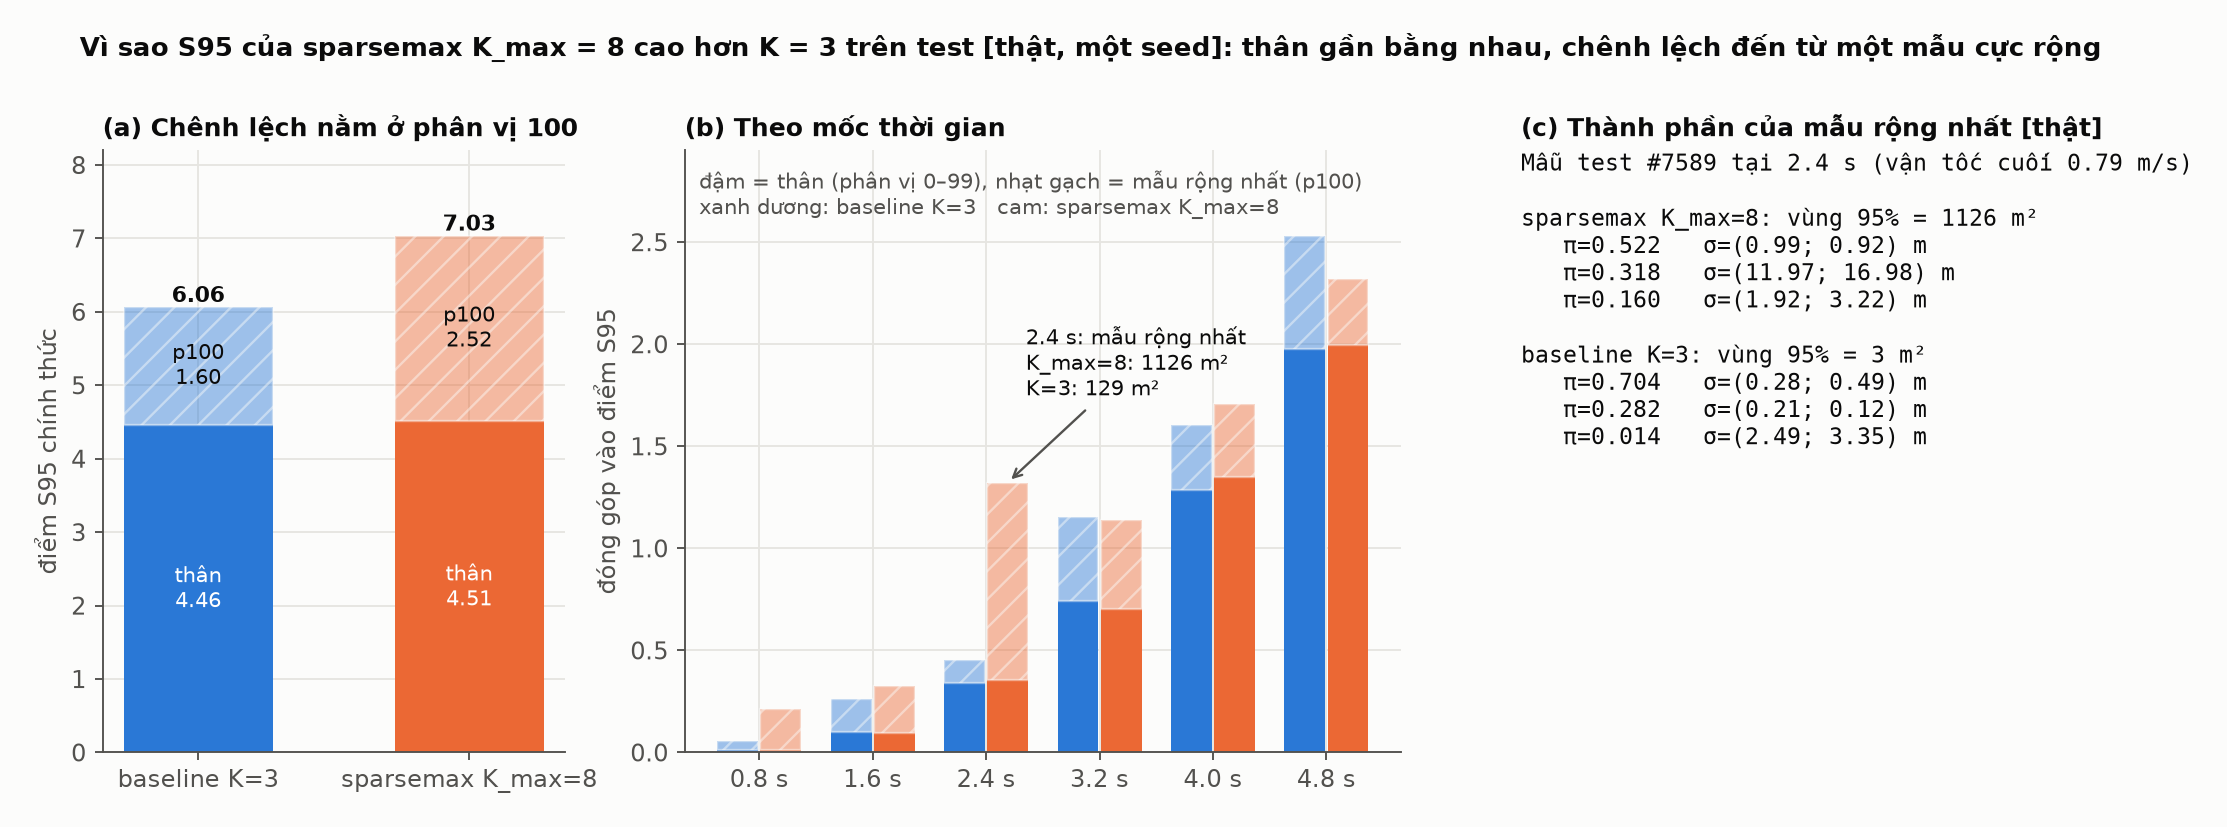
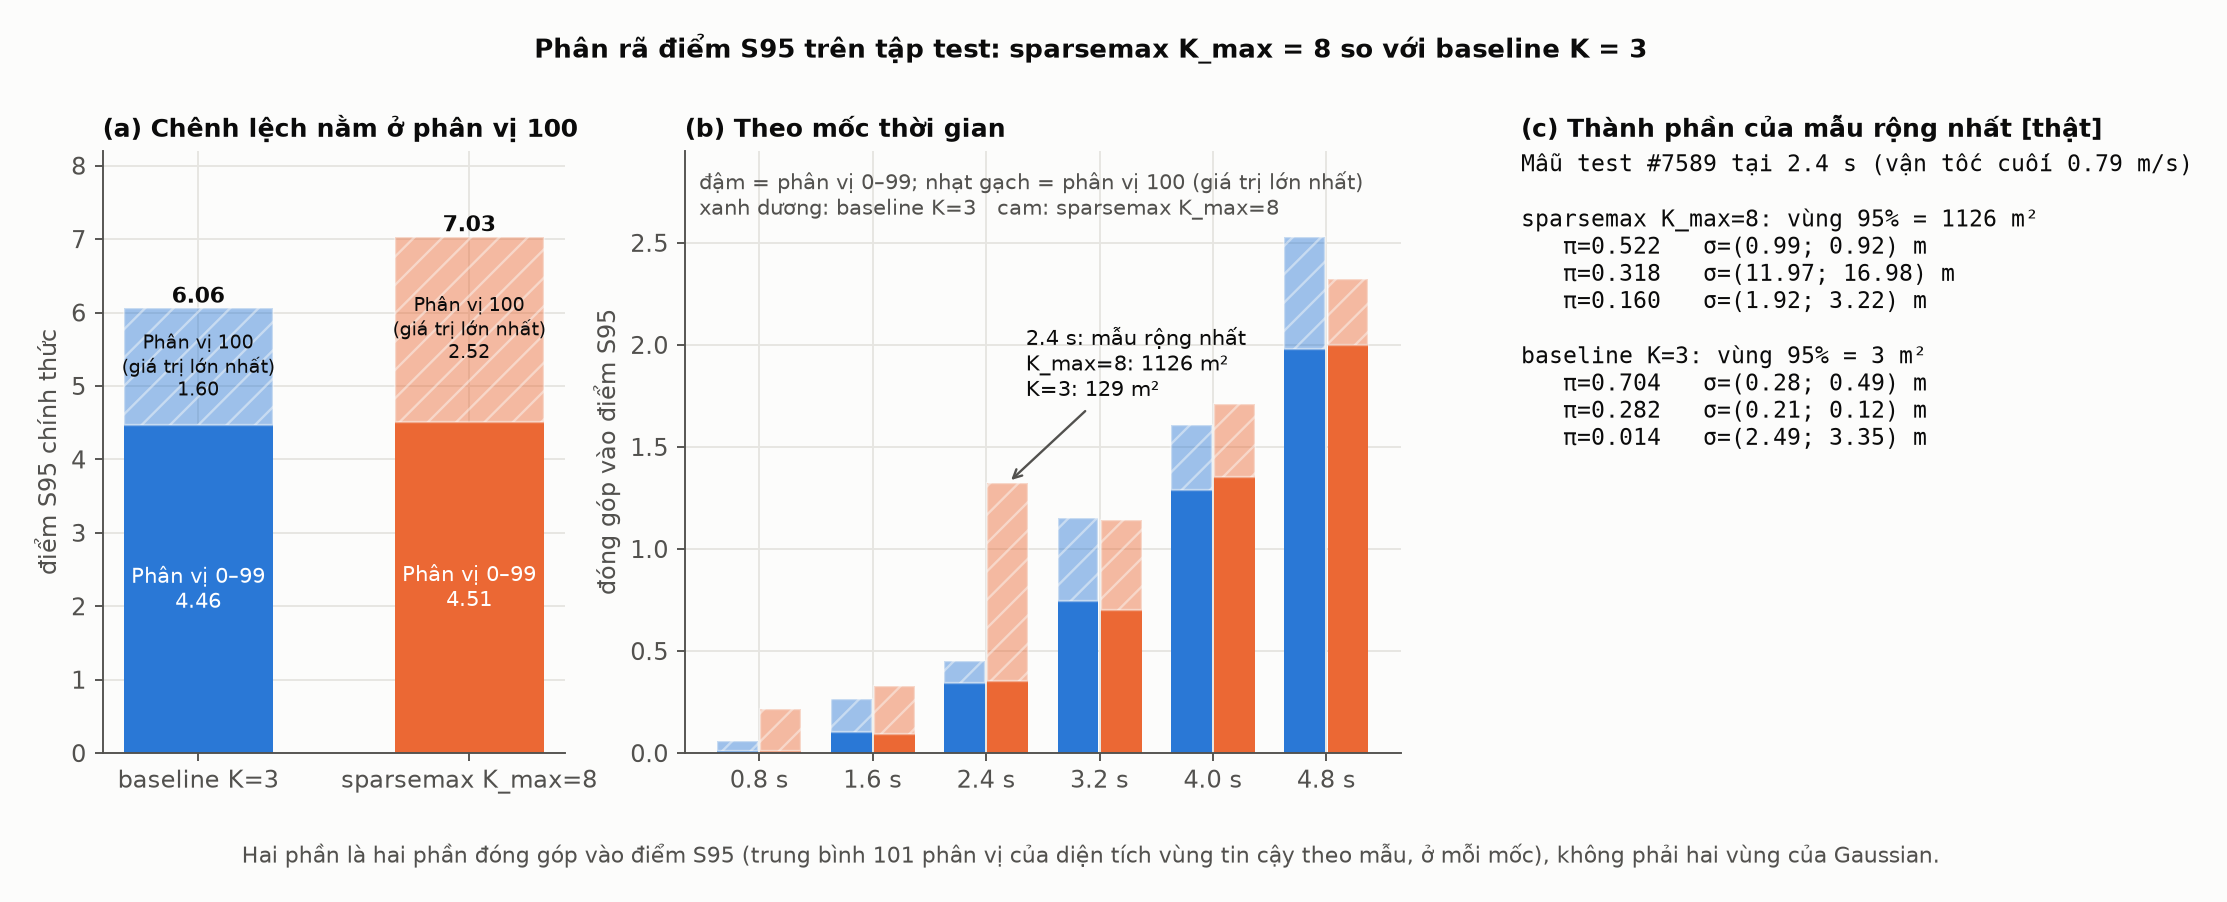
Clarify S95 percentile decomposition and add slide figure generator

diff --git a/docs/sparsemax_mdn_k8/generate_figures.py b/docs/sparsemax_mdn_k8/generate_figures.py
@@ -487,7 +487,7 @@ def fig15_test_sharpness():
         ax.text(i + 0.18, off_v[i], f"{off_v[i]:.2f}", ha="center", va="bottom", fontsize=9.5)
     ax.set_xticks(xs)
     ax.set_xticklabels(["S68", "S95"])
-    ax.text(0.5, 0.9, "xám: trung bình theo mẫu\ncam: điểm chính thức (trung bình 101 phân vị,\ngồm cả mẫu lớn nhất)", transform=ax.transAxes, ha="center", va="top", fontsize=9, color=INK2)
+    ax.text(0.5, 0.9, "xám: trung bình theo mẫu\ncam: điểm chính thức (trung bình 101 phân vị,\ngồm cả phân vị 100 = giá trị lớn nhất)", transform=ax.transAxes, ha="center", va="top", fontsize=9, color=INK2)
     ax.set_ylim(0, max(off_v) * 1.3)
     ax.set_title("Điểm chính thức cao hơn trung bình mẫu", loc="left", fontsize=10, weight="bold")
     fig.suptitle("Độ sắc nét của sparsemax trên tập test [thật]: đa số mẫu rất sắc, điểm chính thức bị kéo lên bởi đuôi", fontsize=11, weight="bold", y=1.03)
@@ -584,21 +584,21 @@ def fig18_s95_explained():
         return None
     d = json.loads(path.read_text())
     fig, axes = plt.subplots(1, 3, figsize=(15.5, 4.6), gridspec_kw={"width_ratios": [1.0, 1.55, 1.35]})
-    # (a) tổng: thân + phân vị 100
+    # (a) tổng: phân vị 0–99 + phân vị 100
     ax = axes[0]
     for i, (name, color) in enumerate((("K3", BLUE), ("K8", ORANGE))):
         s = d["s95"][f"{name}_sum"]
         ax.bar(i, s["body"], color=color, width=0.55)
         ax.bar(i, s["p100"], bottom=s["body"], color=color, alpha=0.45, width=0.55, hatch="//", edgecolor=SURFACE)
         ax.text(i, s["total"], f"{s['total']:.2f}", ha="center", va="bottom", fontsize=9.5, weight="bold")
-        ax.text(i, s["body"] / 2, f"thân\n{s['body']:.2f}", ha="center", va="center", fontsize=8.8, color="white")
-        ax.text(i, s["body"] + s["p100"] / 2, f"p100\n{s['p100']:.2f}", ha="center", va="center", fontsize=8.8)
+        ax.text(i, s["body"] / 2, f"Phân vị 0–99\n{s['body']:.2f}", ha="center", va="center", fontsize=8.8, color="white")
+        ax.text(i, s["body"] + s["p100"] / 2, f"Phân vị 100\n(giá trị lớn nhất)\n{s['p100']:.2f}", ha="center", va="center", fontsize=8.0)
     ax.set_xticks([0, 1])
     ax.set_xticklabels(["baseline K=3", "sparsemax K_max=8"])
     ax.set_ylabel("điểm S95 chính thức")
     ax.set_ylim(0, 8.2)
     ax.set_title("(a) Chênh lệch nằm ở phân vị 100", loc="left", fontsize=10.5, weight="bold")
-    # (b) theo mốc: đóng góp của p100
+    # (b) theo mốc: đóng góp của phân vị 100
     ax = axes[1]
     t = d["horizons_s"]
     x = np.arange(len(t))
@@ -615,7 +615,7 @@ def fig18_s95_explained():
     mx = d["s95"]["K8"][2]["max_area_m2"]; m3 = d["s95"]["K3"][2]["max_area_m2"]
     ax.annotate(f"2.4 s: mẫu rộng nhất\nK_max=8: {mx:.0f} m²\nK=3: {m3:.0f} m²", xy=(2 + 0.19, d["s95"]["K8"][2]["total"]), xytext=(2.35, 1.75),
                 fontsize=9, arrowprops=dict(arrowstyle="->", color=INK2), color=INK)
-    ax.text(0.02, 0.97, "đậm = thân (phân vị 0–99), nhạt gạch = mẫu rộng nhất (p100)\nxanh dương: baseline K=3   cam: sparsemax K_max=8", transform=ax.transAxes, va="top", fontsize=9, color=INK2)
+    ax.text(0.02, 0.97, "đậm = phân vị 0–99; nhạt gạch = phân vị 100 (giá trị lớn nhất)\nxanh dương: baseline K=3   cam: sparsemax K_max=8", transform=ax.transAxes, va="top", fontsize=9, color=INK2)
     # (c) thành phần của mẫu rộng nhất
     ax = axes[2]
     w = d["widest_sample"]
@@ -629,8 +629,10 @@ def fig18_s95_explained():
         lines.append("")
     ax.text(0.0, 1.0, "\n".join(lines), va="top", ha="left", fontsize=9.6, family="DejaVu Sans Mono", color=INK)
     ax.set_title("(c) Thành phần của mẫu rộng nhất [thật]", loc="left", fontsize=10.5, weight="bold")
-    fig.suptitle("Vì sao S95 của sparsemax K_max = 8 cao hơn K = 3 trên test [thật, một seed]: thân gần bằng nhau, chênh lệch đến từ một mẫu cực rộng",
+    fig.suptitle("Phân rã điểm S95 trên tập test: sparsemax K_max = 8 so với baseline K = 3",
                  fontsize=11, weight="bold", y=1.03)
+    fig.text(0.5, -0.03, "Hai phần là hai phần đóng góp vào điểm S95 (trung bình 101 phân vị của diện tích vùng tin cậy theo mẫu, ở mỗi mốc), không phải hai vùng của Gaussian.",
+             ha="center", fontsize=9.5, color=INK2)
     save(fig, "18_s95_explained.png")
     return {"s95_sum": {"K3": d["s95"]["K3_sum"], "K8": d["s95"]["K8_sum"]}}
 

diff --git a/docs/sparsemax_mdn_k8/generate_slide_figures.py b/docs/sparsemax_mdn_k8/generate_slide_figures.py
@@ -1,0 +1,36 @@
+"""Presentation plots from saved test artifacts. No model training/evaluation."""
+from pathlib import Path
+import json
+import matplotlib
+matplotlib.use('Agg')
+import matplotlib.pyplot as plt
+import numpy as np
+ROOT=Path(__file__).resolve().parents[2];OUT=Path(__file__).resolve().parent/'figures/slides';OUT.mkdir(exist_ok=True)
+BLUE='#2563eb';ORANGE='#ed713a';NAVY='#102753'
+plt.rcParams.update({'font.size':16,'axes.titlesize':19,'axes.labelsize':16,'xtick.labelsize':14,'ytick.labelsize':14,'axes.spines.top':False,'axes.spines.right':False,'text.color':NAVY,'axes.labelcolor':NAVY,'savefig.dpi':180})
+t=json.load(open(ROOT/'results/trained_models/sparsemax_mdn/imptc/sparsemax_k8_peds_imptc/runs/sparsemax_k8_v2_seed2024/evaluation/test_best_clampedpi.json'))
+b=next(r for r in json.load(open(ROOT/'results/ablations/imptc_num_gaussians/ablation.json'))['results'] if r['num_gaussians']==3)
+s=t['official_metrics']|{'test_nll':t['exact_nll']}
+rows=[('NLL ↓','test_nll'),('Ravg (%) ↑','ravg_percent'),('Rmin (%) ↑','rmin_percent'),('minADE20 (m) ↓','minade20_m'),('S68 (m²/s) ↓','s68_m2_per_s'),('S95 (m²/s) ↓','s95_m2_per_s'),('minFDE20 (m) ↓','minfde20_m'),('ASAEE (m/s) ↓','asaee_m_per_s')]
+fig,axs=plt.subplots(2,4,figsize=(18,6.6),layout='constrained')
+for ax,(title,k) in zip(axs.flat,rows):
+ vals=[b[k],s[k]];bars=ax.bar([0,1],vals,color=[BLUE,ORANGE],width=.52);ax.set_xticks([0,1],['K=3','Sparsemax K8']);ax.set_title(title,loc='left',weight='bold',pad=20);ax.grid(axis='y',alpha=.16);ax.set_axisbelow(True)
+ if min(vals)>=0:
+  span=max(vals)-min(vals);pad=max(span*1.5,max(vals)*.012);ax.set_ylim(max(0,min(vals)-pad),max(vals)+pad*1.3)
+ else:ax.set_ylim(min(vals)*1.16,0)
+ for bar,v in zip(bars,vals):ax.annotate(f'{v:.2f}' if k.startswith('r') else f'{v:.3f}',(bar.get_x()+bar.get_width()/2,v),ha='center',va='bottom' if v>=0 else 'top',xytext=(0,7 if v>=0 else -5),textcoords='offset points',fontsize=19,weight='bold',color=NAVY)
+fig.savefig(OUT/'14_test_metrics_slide.png');plt.close(fig)
+a=json.load(open(Path(__file__).resolve().parent/'data/s95_explained.json'))['s95']
+fig,axs=plt.subplots(1,2,figsize=(15,5.8),gridspec_kw={'width_ratios':[1,1.75]},layout='constrained')
+ax=axs[0]
+for i,key,col in [(0,'K3',BLUE),(1,'K8',ORANGE)]:
+ body=sum(r['body'] for r in a[key]);tail=sum(r['p100'] for r in a[key]);ax.bar(i,body,color=col,width=.55);ax.bar(i,tail,bottom=body,color=col,alpha=.4,hatch='///',width=.55)
+ ax.text(i,body/2,f'Thân\n{body:.2f}',ha='center',va='center',color='white',fontsize=21,weight='bold');ax.text(i,body+tail/2,f'p100\n{tail:.2f}',ha='center',va='center',fontsize=19);ax.text(i,body+tail+.16,f'{body+tail:.2f}',ha='center',fontsize=22,weight='bold')
+ax.set_xticks([0,1],['Baseline K3','Sparsemax K8']);ax.set_ylim(0,8);ax.set_title('Phần thân gần bằng nhau',loc='left',weight='bold',pad=18);ax.set_ylabel('Đóng góp vào S95');ax.grid(axis='y',alpha=.16);ax.set_axisbelow(True)
+ax=axs[1];xx=np.arange(6)
+for off,key,col in [(-.17,'K3',BLUE),(.17,'K8',ORANGE)]:
+ body=[r['body'] for r in a[key]];tail=[r['p100'] for r in a[key]];ax.bar(xx+off,body,width=.32,color=col,label='Baseline K3' if key=='K3' else 'Sparsemax K8');ax.bar(xx+off,tail,bottom=body,width=.32,color=col,alpha=.4,hatch='///')
+ax.set_xticks(xx,['0.8','1.6','2.4','3.2','4.0','4.8']);ax.set_xlabel('Horizon (giây)');ax.set_title('Chênh lệch nổi bật tại 2,4 giây',loc='left',weight='bold',pad=18);ax.grid(axis='y',alpha=.16);ax.set_axisbelow(True);ax.legend(fontsize=13,loc='upper left');ax.annotate('p100: 0,968 vs 0,110',xy=(2.17,1.31),xytext=(1.5,2.1),arrowprops={'arrowstyle':'->','color':NAVY},fontsize=17)
+fig.savefig(OUT/'18_s95_explained_slide.png');plt.close(fig)
+(OUT/'manifest.json').write_text(json.dumps({'script':'docs/sparsemax_mdn_k8/generate_slide_figures.py','figures':['14_test_metrics_slide.png','18_s95_explained_slide.png'],'sources':['evaluation/test_best_clampedpi.json (K8)','results/ablations/imptc_num_gaussians/ablation.json (K3)','docs/sparsemax_mdn_k8/data/s95_explained.json'],'method':'Replot saved data for readability. No inference/evaluation.'},indent=2))
+print(OUT)

diff --git a/docs/sparsemax_mdn_k8/analyze_s95.py b/docs/sparsemax_mdn_k8/analyze_s95.py
@@ -32,7 +32,7 @@ STEPS = [7, 15, 23, 31, 39, 47]
 
 
 def decompose(areas, hor, dt, fh):
-    """Điểm chính thức = trung bình 101 phân vị (0..100) của diện tích theo từng mốc; tách thân (0..99) và phân vị 100."""
+    """Điểm chính thức = trung bình 101 phân vị (0..100) của diện tích theo từng mốc; tách phần đóng góp của phân vị 0..99 và của phân vị 100 (giá trị lớn nhất)."""
     rows = []
     for i, h in enumerate(hor):
         q = np.percentile(areas[:, i], np.arange(0, 101))

diff --git a/docs/sparsemax_mdn_k8/SPARSEMAX_MDN.md b/docs/sparsemax_mdn_k8/SPARSEMAX_MDN.md
@@ -218,15 +218,17 @@ Trả lời ngắn: **đó là hệ quả của cách tính điểm chính thứ
 
 **Hình 18** **[thật]**.
 
-**Điểm chính thức = trung bình 101 phân vị của diện tích vùng tin cậy theo mẫu, ở mỗi mốc dự báo.** Phân vị thứ 100 là *mẫu rộng nhất* ở mốc đó, nên **một mẫu duy nhất chiếm khoảng 1% điểm** của mỗi mốc, bất kể có bao nhiêu mẫu.
+**Điểm chính thức = trung bình 101 phân vị của diện tích vùng tin cậy theo mẫu, ở mỗi mốc dự báo.** Phân vị 100 là **giá trị lớn nhất**, tức diện tích của *mẫu rộng nhất* ở mốc đó (còn phân vị 0 là giá trị nhỏ nhất); lưới có đúng 101 điểm (0, 1, ..., 100) nên mỗi điểm có trọng số 1/101. Vì vậy **một mẫu duy nhất (mẫu rộng nhất) chiếm khoảng 1% điểm** của mỗi mốc, bất kể có bao nhiêu mẫu.
 
-**Bước 1. Phân rã điểm: phần "thân" gần như bằng nhau, chênh lệch nằm ở phân vị 100.**
+**Bước 1. Phân rã điểm: phần đóng góp của phân vị 0–99 gần như bằng nhau, chênh lệch nằm ở phân vị 100 (giá trị lớn nhất).**
+
+*Lưu ý về từ "phân vị":* "phân vị 0–99" và "phân vị 100" ở đây là các điểm của **lưới 101 phân vị trong công thức điểm chính thức** (tính theo từng mốc); chúng là hai phần đóng góp vào điểm S95, **không phải hai vùng của Gaussian**. Các hàng "phân vị 90/99/99.9 theo mẫu" ở cuối bảng là một khái niệm khác: phân vị của điểm sắc nét tính cho từng mẫu.
 
 | Test, 56 694 mẫu | S95 sparsemax | S95 K = 3 | S68 sparsemax | S68 K = 3 |
 |---|---:|---:|---:|---:|
 | Điểm chính thức | 7.034 | 6.061 | 1.148 | 1.358 |
-| Phần "thân" (phân vị 0 đến 99) | 4.511 | 4.463 | **0.562** | 0.627 |
-| **Phần mẫu rộng nhất mỗi mốc (phân vị 100)** | **2.523** | 1.598 | 0.587 | 0.730 |
+| Phân vị 0 đến 99 (100 trong 101 điểm của lưới, từ giá trị nhỏ nhất đến phân vị 99) | 4.511 | 4.463 | **0.562** | 0.627 |
+| **Phân vị 100 (giá trị lớn nhất, mẫu rộng nhất mỗi mốc)** | **2.523** | 1.598 | 0.587 | 0.730 |
 | Trung bình theo mẫu | 4.691 | 4.705 | **0.603** | 0.694 |
 | Trung vị theo mẫu | 4.174 | 3.925 | 0.503 | 0.546 |
 | Phân vị 90 theo mẫu | 6.51 | 6.88 | 1.13 | 1.35 |
@@ -234,7 +236,7 @@ Trả lời ngắn: **đó là hệ quả của cách tính điểm chính thứ
 | Phân vị 99.9 theo mẫu | **26.9** | 42.8 | 7.11 | 15.0 |
 | Số mẫu có điểm trên 20 | **92** | 258 | **12** | 48 |
 
-Chênh lệch S95 chính thức là **+0.973**, trong đó phần thân chỉ **+0.048** (+1%) còn phân vị 100 là **+0.925**. Nói cách khác, nếu bỏ mẫu rộng nhất ở mỗi mốc thì S95 của hai mô hình gần như bằng nhau, và các thống kê đuôi theo mẫu (phân vị 90, 99, 99.9, số mẫu rộng bất thường) của sparsemax còn **tốt hơn** K = 3. Với S68, sparsemax tốt hơn ở cả phần thân lẫn phân vị 100.
+Chênh lệch S95 chính thức là **+0.973**, trong đó phân vị 0–99 chỉ **+0.048** (+1%) còn phân vị 100 là **+0.925**. Nói cách khác, nếu bỏ mẫu rộng nhất ở mỗi mốc thì S95 của hai mô hình gần như bằng nhau, và các thống kê đuôi theo mẫu (phân vị 90, 99, 99.9, số mẫu rộng bất thường) của sparsemax còn **tốt hơn** K = 3. Với S68, sparsemax tốt hơn ở cả phân vị 0–99 lẫn phân vị 100.
 
 **Bước 2. Chênh lệch tập trung ở một mốc: 2.4 giây.** Đóng góp của phân vị 100 vào điểm S95, theo mốc:
 
